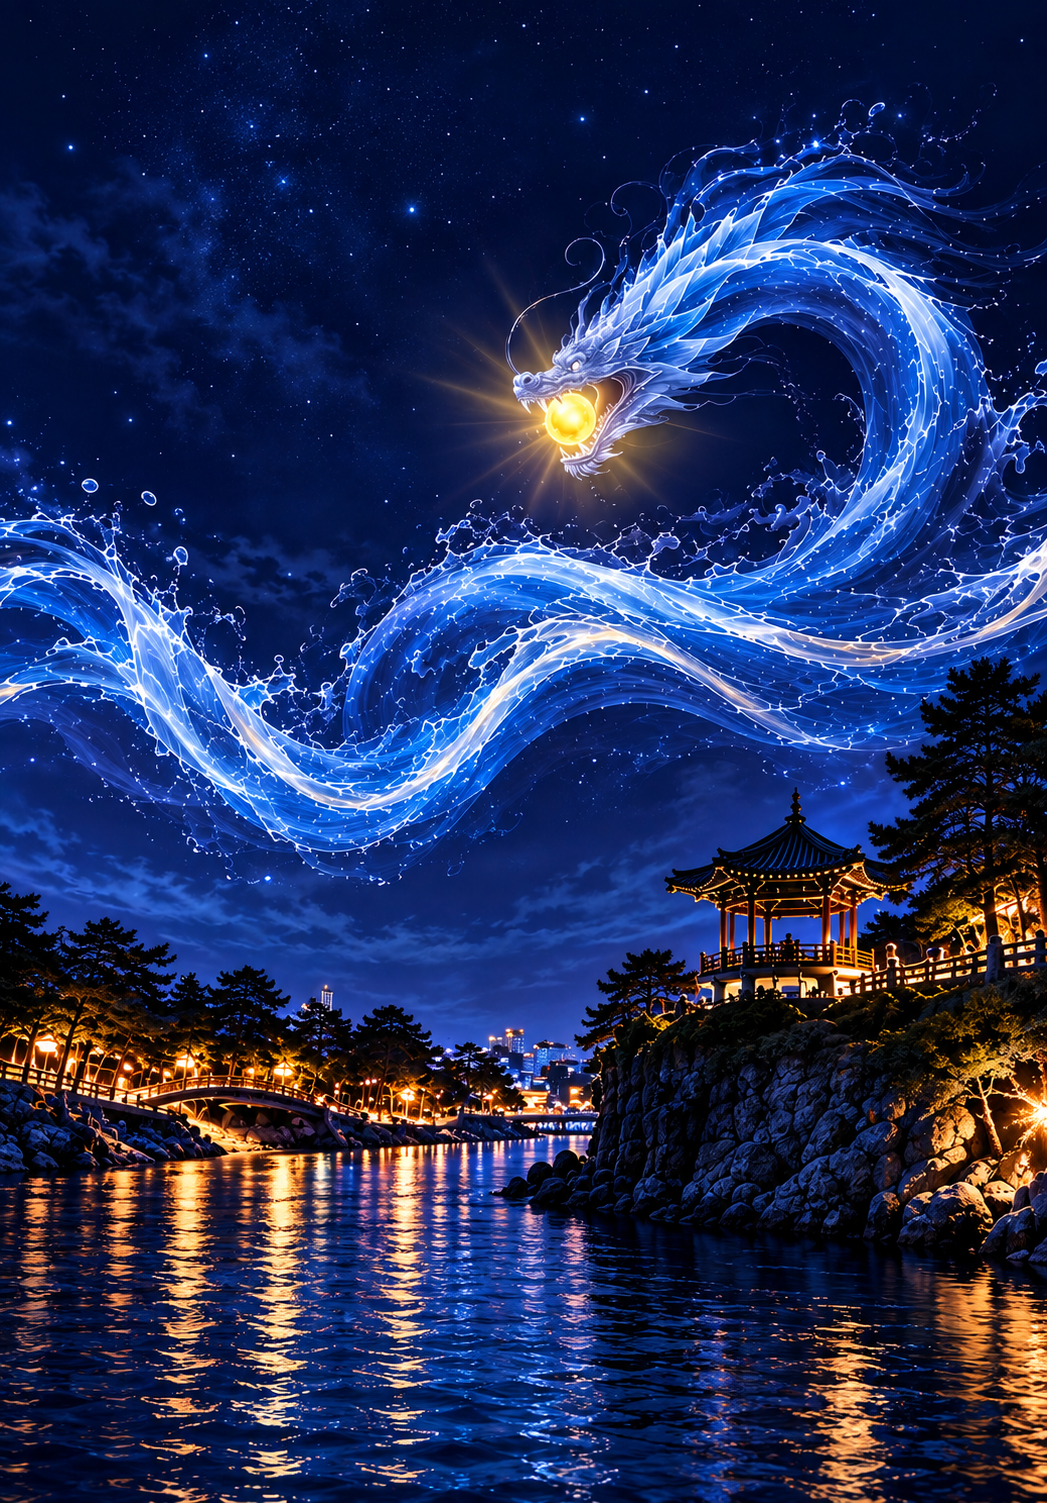
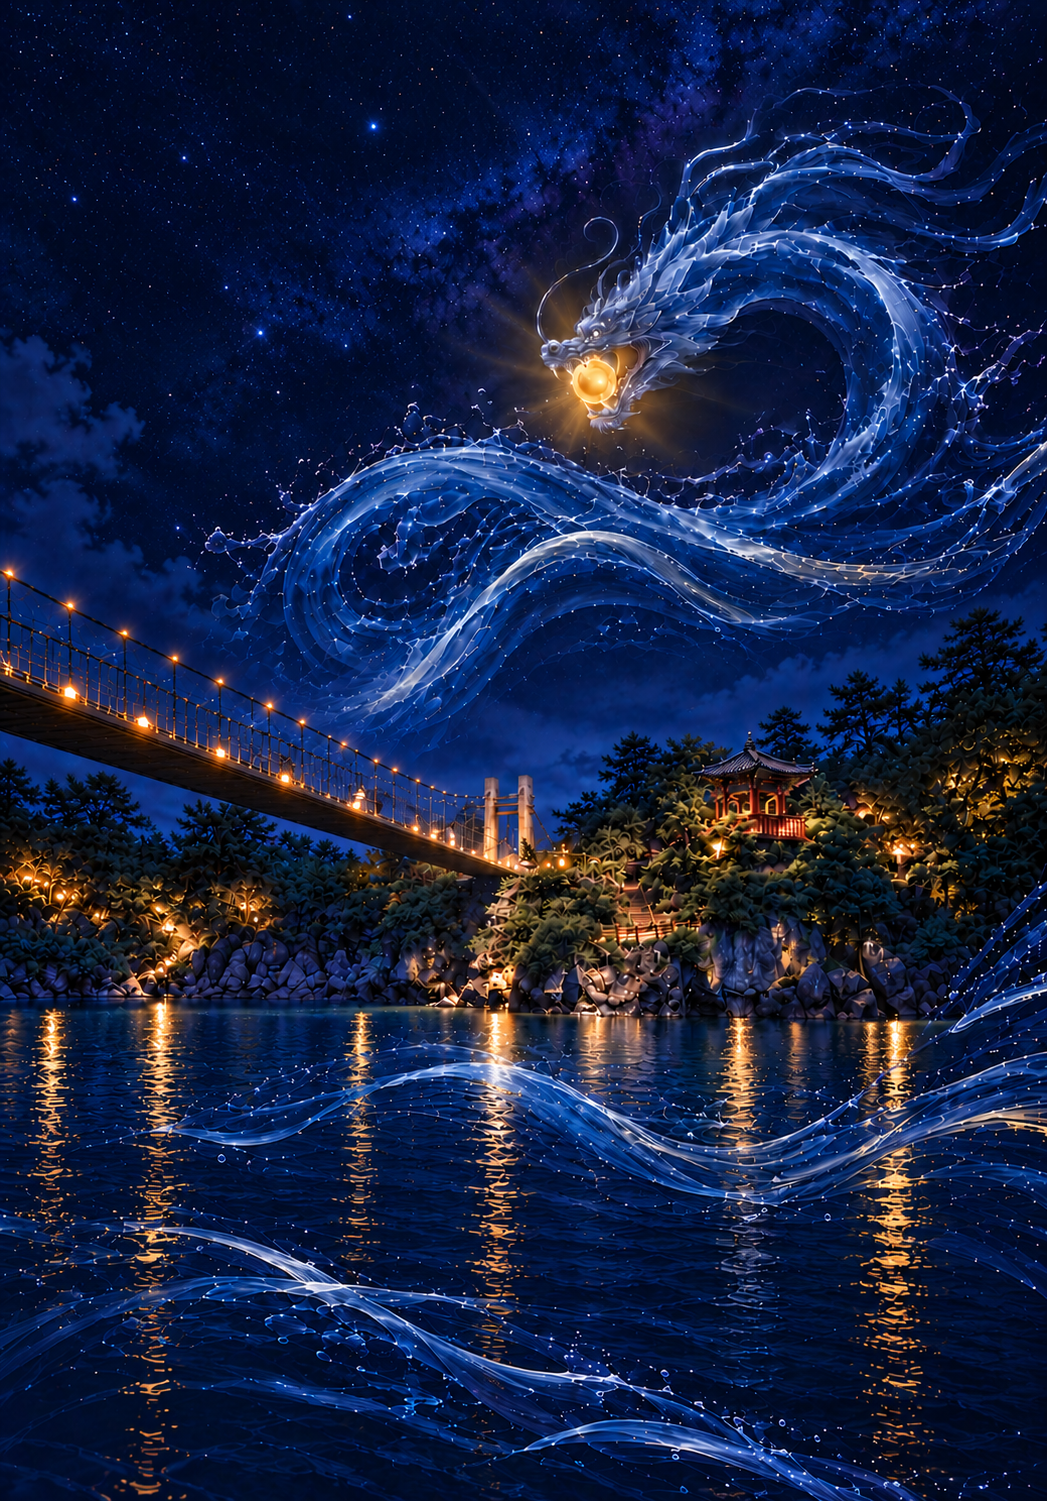
New hero photos and map; zoomed map on phones
- New PC/mobile hero backgrounds; share image regenerated
- New map image with the event area and pin re-aligned
- Phones: map zoomed 1.6x and centred on the event area
- Thinner area outline that keeps its width when zoomed

diff --git a/src/App.css b/src/App.css
@@ -689,7 +689,7 @@
   position: absolute;
   top: 50%;
   left: 50%;
-  width: max(100%, var(--map-height) * var(--map-ratio));
+  width: calc(max(100%, var(--map-height) * var(--map-ratio)) * var(--map-zoom, 1));
   aspect-ratio: var(--map-ratio);
   transform: translate(-50%, -50%);
 }
@@ -709,13 +709,14 @@
 }
 
 .location__area polygon {
+  vector-effect: non-scaling-stroke;
   /* Same blue as the pin; a white halo keeps the edge crisp on the green park */
   fill: rgba(47, 88, 201, 0.28);
   stroke: #2f58c9;
-  stroke-width: 5;
+  stroke-width: 2;
   stroke-linejoin: round;
   paint-order: stroke;
-  filter: drop-shadow(0 0 3px rgba(255, 255, 255, 0.95));
+  filter: drop-shadow(0 0 1.5px rgba(255, 255, 255, 0.9));
 }
 
 .location__marker {
@@ -1314,7 +1315,13 @@
 
   .location__map {
     --map-height: 220px;
+    /* Zoom in on phones and centre the event area (the pin) in the box */
+    --map-zoom: 1.6;
     border-radius: 14px;
+  }
+
+  .location__map-canvas {
+    transform: translate(calc(-1 * var(--focus-x)), calc(-1 * var(--focus-y) + 18px));
   }
 
   .location__marker-label {

diff --git a/src/data.ts b/src/data.ts
@@ -11,9 +11,9 @@ export const MAP = {
   width: 2000,
   height: 1000,
   // Event area (the park south of 용연구름다리 plus 용두암길 beside it), as polygon points in image pixels (2000 x 1000)
-  area: '776,582 797,582 820,598 846,618 866,645 880,672 889,703 894,736 896,768 896,790 873,790 820,796 767,802 740,798 727,788 723,760 721,730 716,704 722,684 730,664 743,633 752,614 760,600 768,588',
+  area: '800,395 811,395 823,403 836,414 847,428 854,442 858,458 861,475 862,492 862,503 850,503 823,506 795,509 781,507 774,502 772,488 771,472 769,458 772,448 776,438 783,422 787,412 791,404 796,398',
   // Pin inside the event area, as a % of the image
-  marker: { x: '39.8%', y: '70.5%' },
+  marker: { x: '40.5%', y: '45.9%' },
   kakaoUrl: 'https://kko.to/L4OXCh7Mn1',
 }
 

diff --git a/src/App.tsx b/src/App.tsx
@@ -255,7 +255,13 @@ function Location() {
       >
         <div
           className="location__map-canvas"
-          style={{ '--map-ratio': MAP.width / MAP.height } as CSSProperties}
+          style={
+            {
+              '--map-ratio': MAP.width / MAP.height,
+              '--focus-x': MAP.marker.x,
+              '--focus-y': MAP.marker.y,
+            } as CSSProperties
+          }
         >
           <img src={MAP.image} alt="메인 무대 약도" />
           <svg
